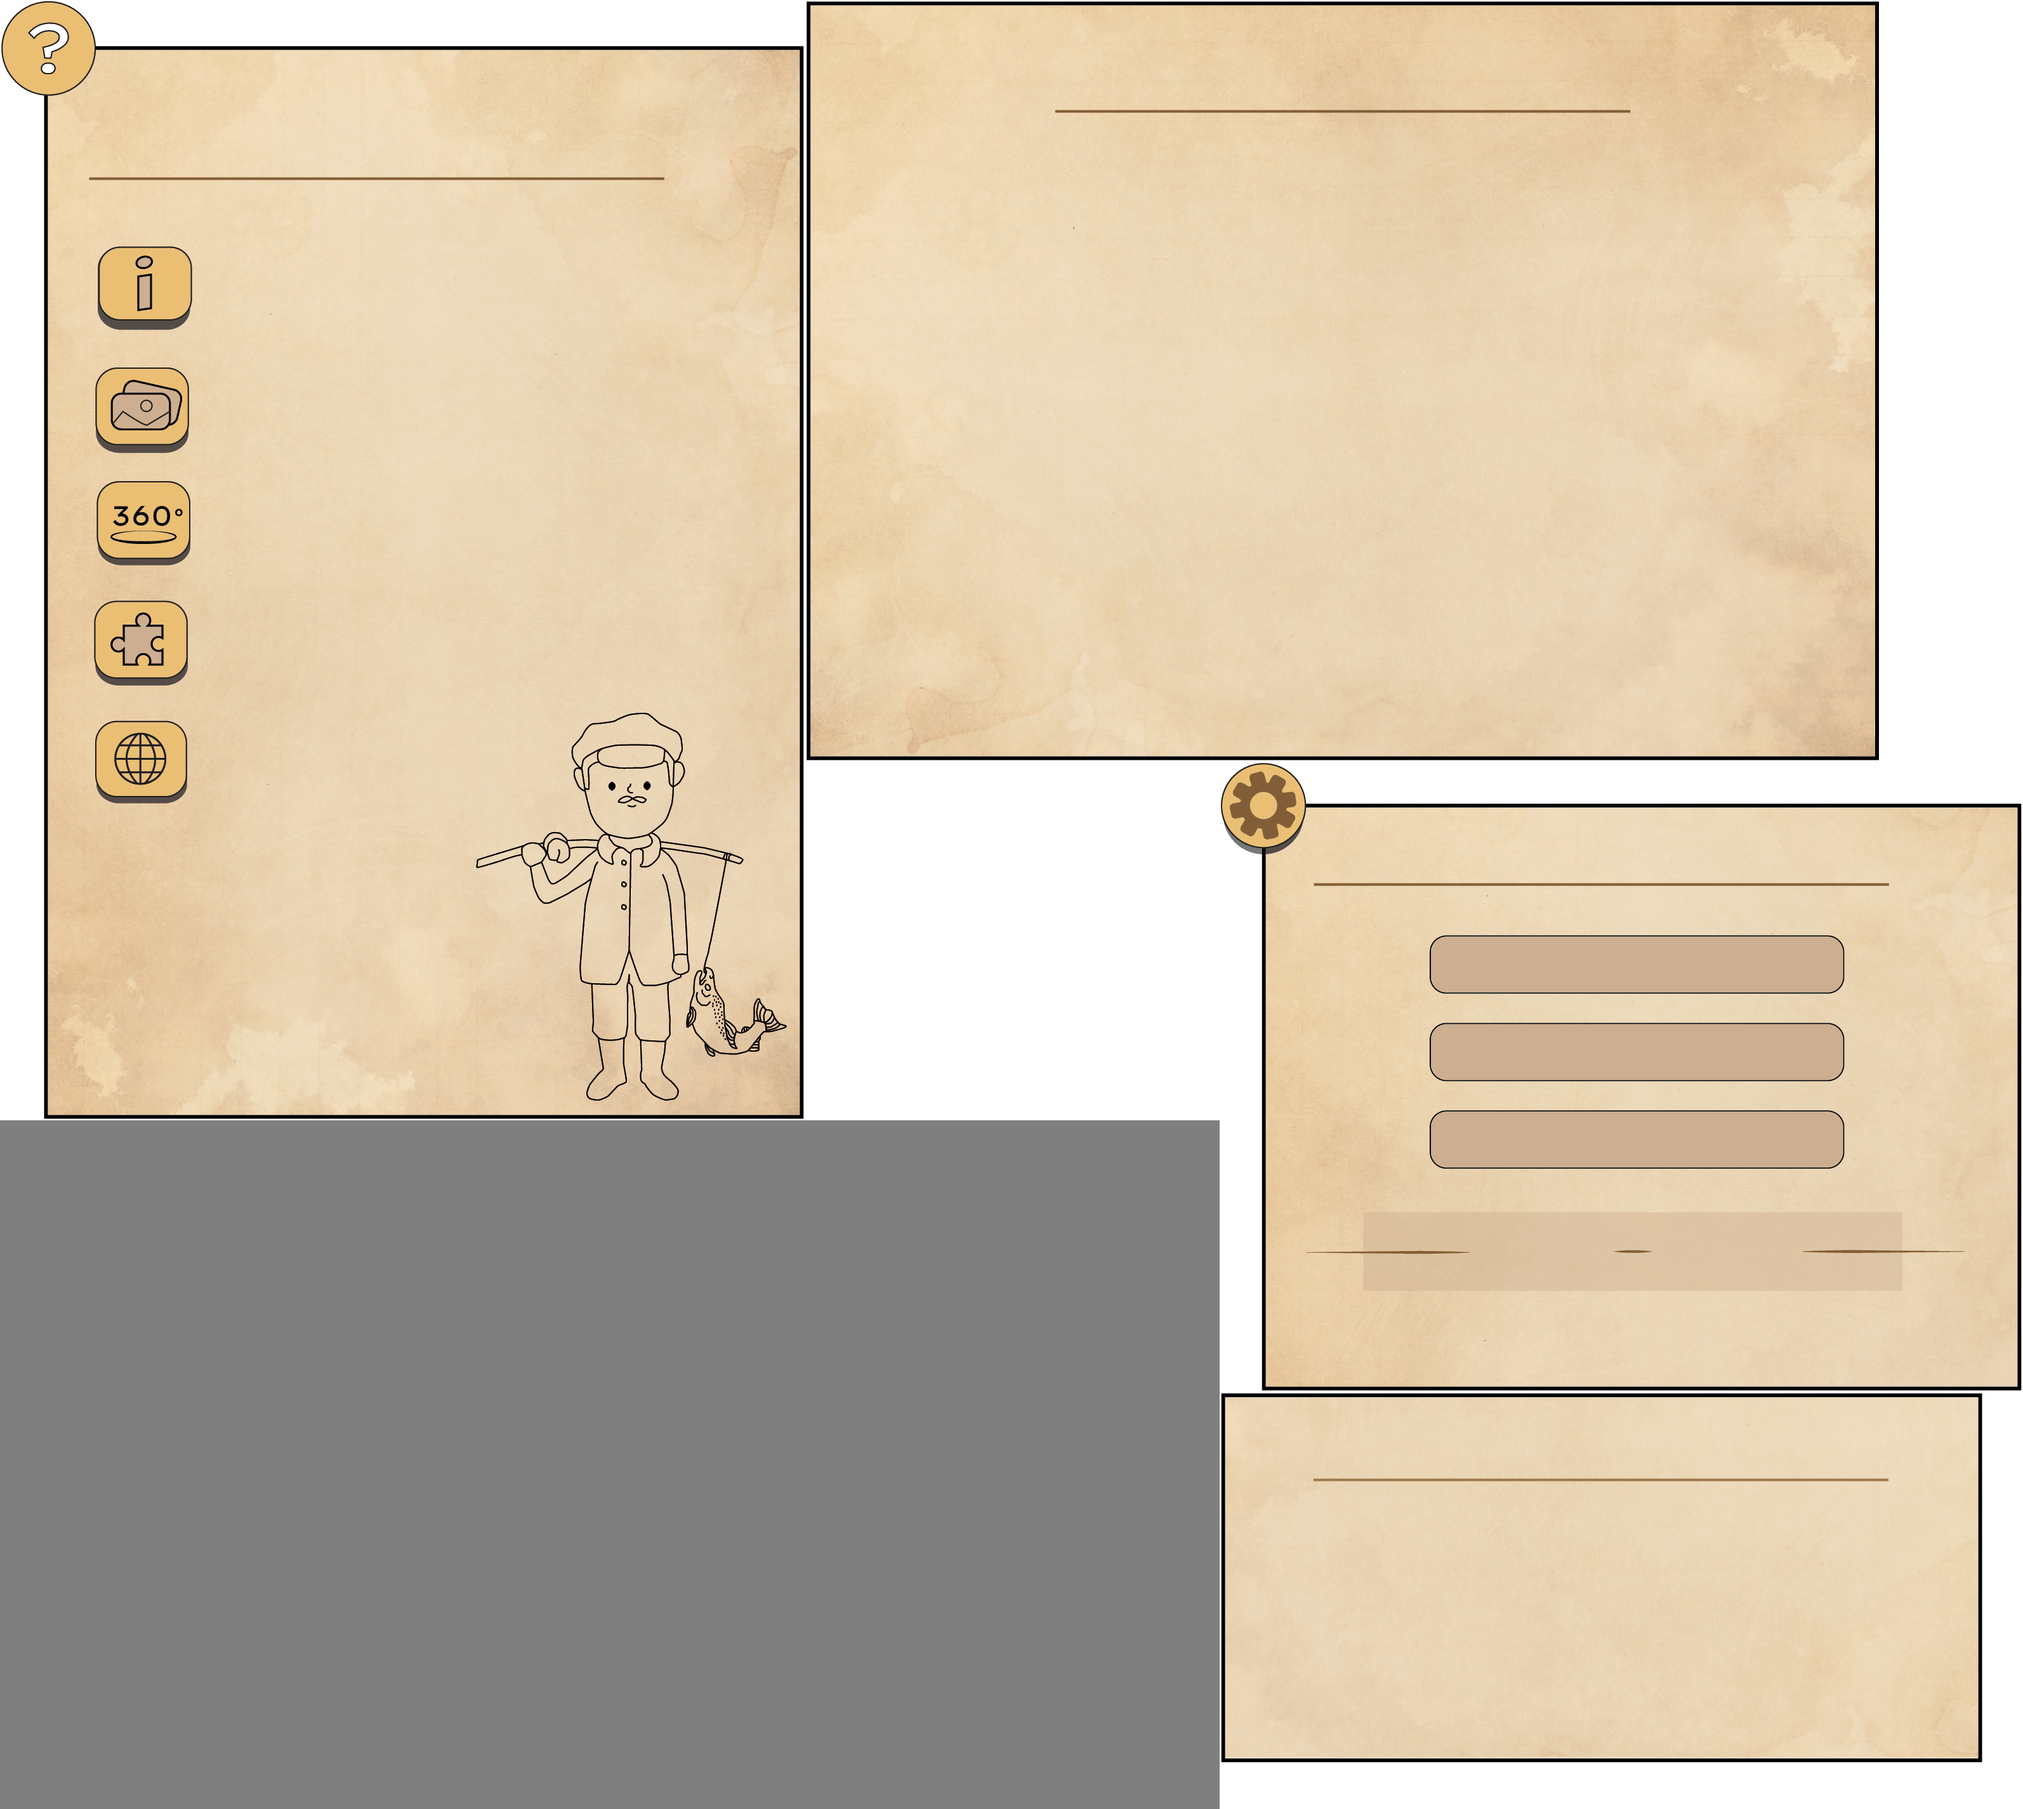
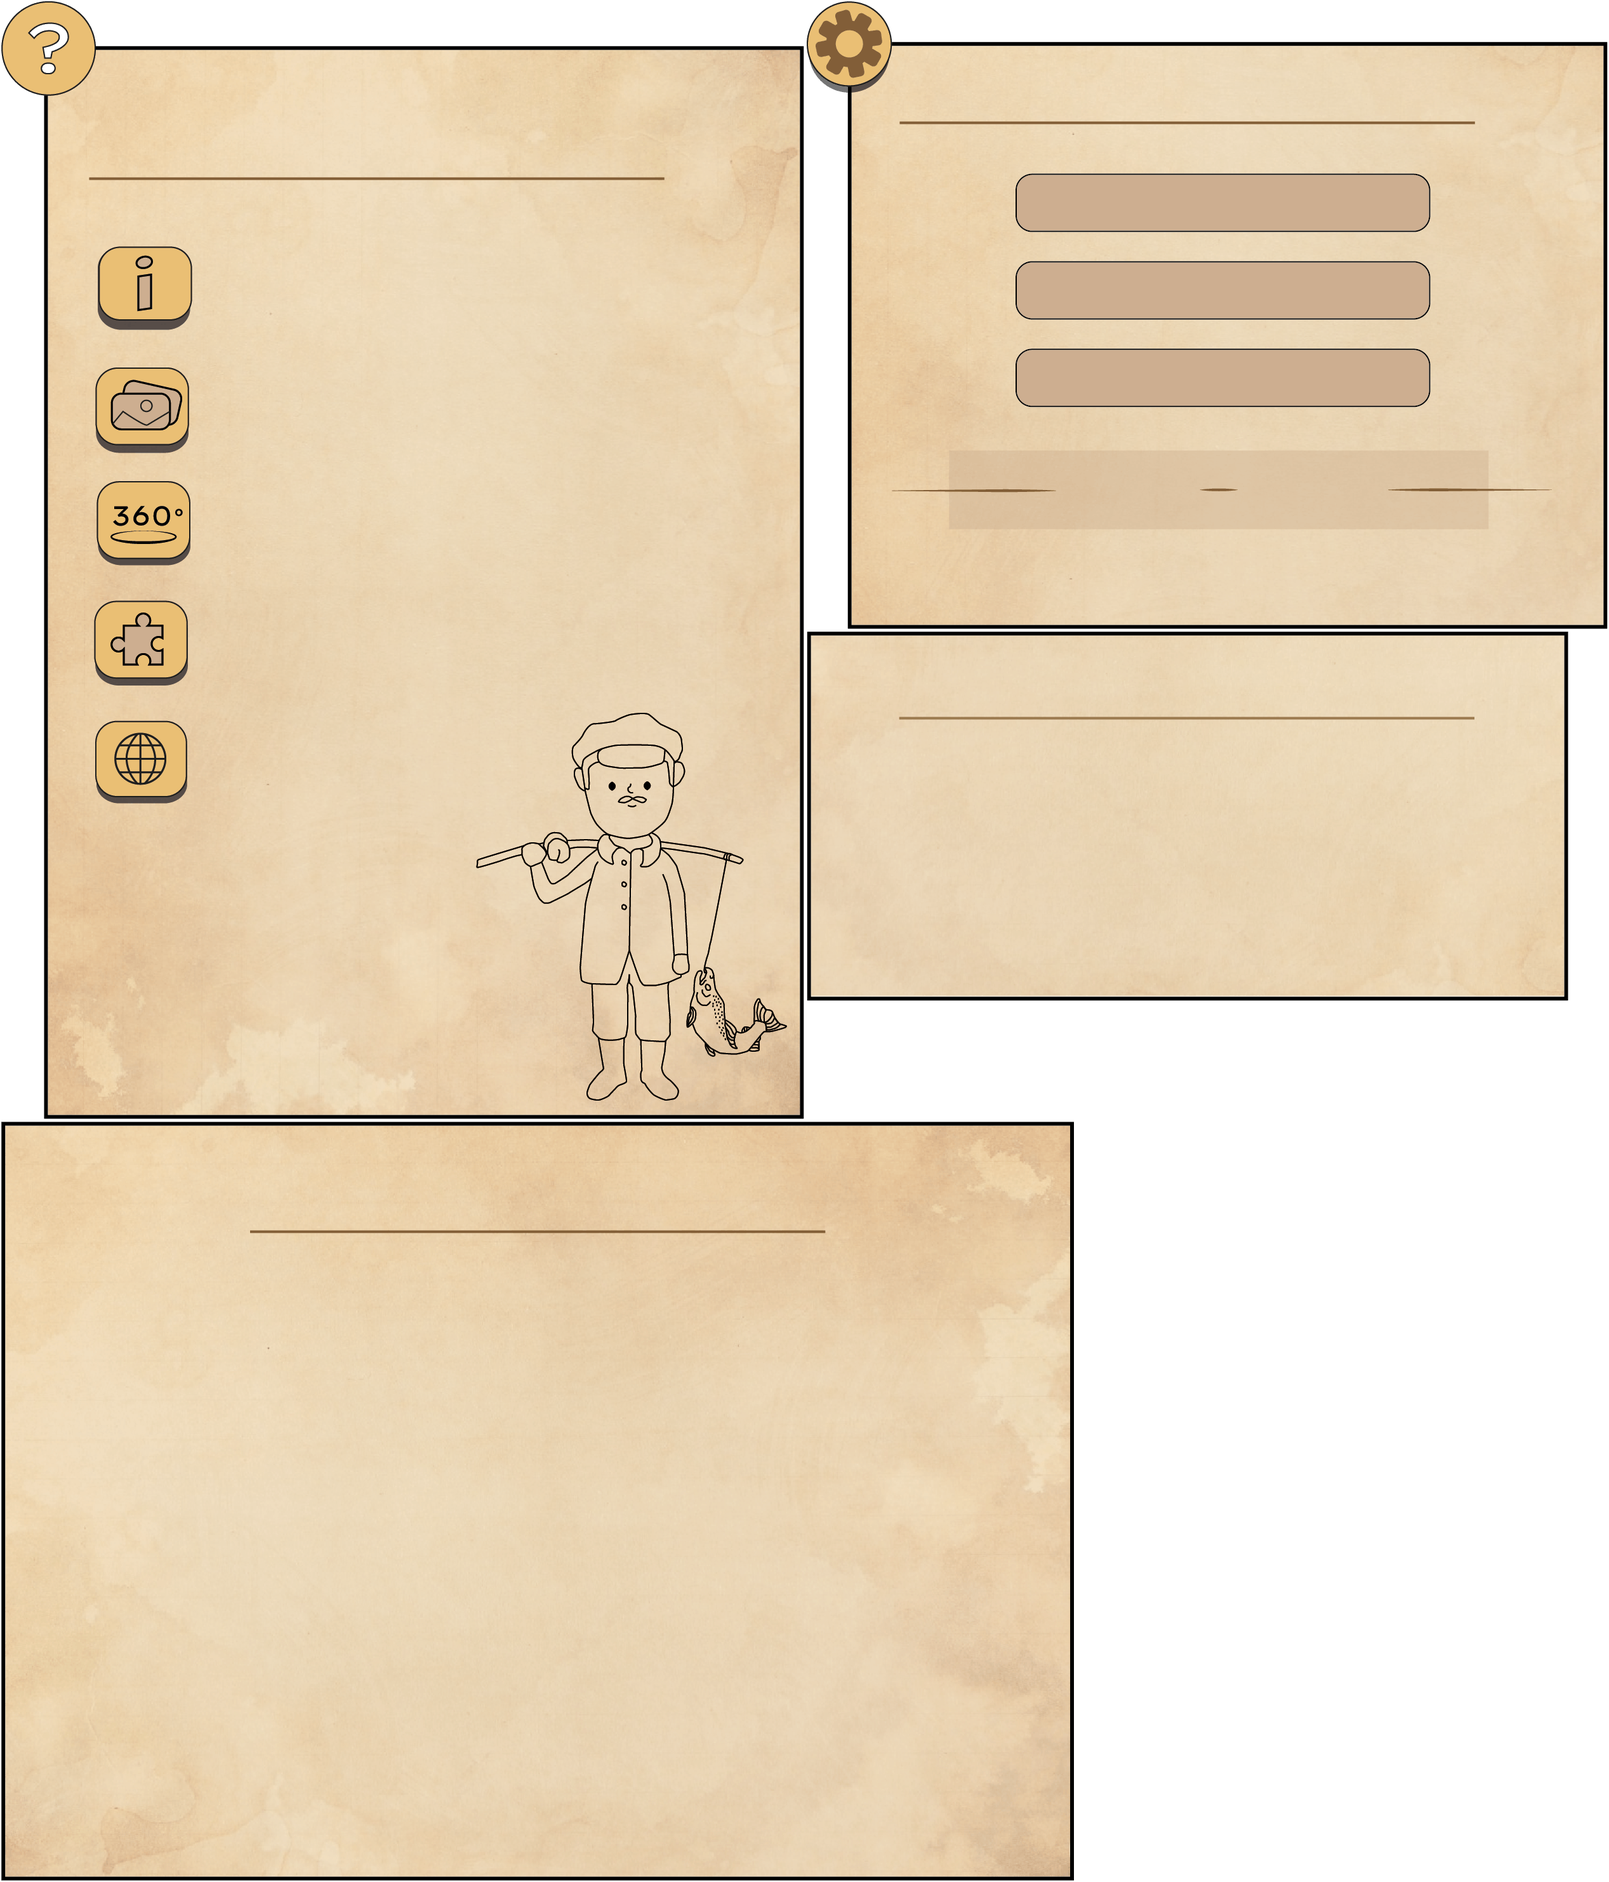
Restart-nappimuutokset muistipeliin

diff --git a/StockforsJS/MuistiPeliScene.js b/StockforsJS/MuistiPeliScene.js
@@ -145,7 +145,10 @@ class MuistiPeliScene extends Phaser.Scene {
 
     StartGame(difficulty) {
 
-        let back = CreateTextButton(this, (-this.menu.width/2)* this.menu.bg.scaleX, (this.menu.height/2) * this.menu.bg.scaleY, 'UI Buttons/Takaisin', this.data.Back).setScale(0.7);
+        //X coordinate for placing the restart button in the corner
+        //(-this.menu.width/2)* this.menu.bg.scaleX
+
+        let back = CreateTextButton(this, 0, (this.menu.height/2) * this.menu.bg.scaleY, 'UI Buttons/Nappi', this.data.Back).setScale(0.7);
 
         back.on('pointerup', function()
         {
@@ -315,16 +318,16 @@ class MuistiPeliScene extends Phaser.Scene {
 
                                 let win = CreateTextButton(this, this.cameras.main.centerX, this.cameras.main.centerY, 'UI Buttons/Nappi', this.data.Win + this.clicks + '\n' + this.data.highScore).disableInteractive();
                                 //let highScore = CreateTextButton(this, this.cameras.main.centerX, 350, 'UI Buttons/Nappi', this.data.HighScore).disableInteractive();
-                                win.bg.setScale(1, 2);
-                                let restart = CreateTextButton(this, this.cameras.main.centerX, this.cameras.main.centerY + 200, 'UI Buttons/OK', this.data.Restart);
+                                win.bg.setScale(1.1, 1.65);
+                                //let restart = CreateTextButton(this, this.cameras.main.centerX, this.cameras.main.centerY + 200, 'UI Buttons/OK', this.data.Restart);
 
-                                restart.on('pointerup', function () {
+                                /*restart.on('pointerup', function () {
 
                                     if (restart.pressed) {
                                         this.scene.restart();
                                     }
 
-                                }, this);
+                                }, this);*/
 
                                 if (this.difficulty == 'easy') {
                                     if (this.clicks < gameState.MPScoreEasy || gameState.MPScoreEasy == startingGameState.MPScoreEasy) {

diff --git a/StockforsJS/OptionsMenuScene.js b/StockforsJS/OptionsMenuScene.js
@@ -56,9 +56,9 @@ class OptionsMenuScene extends Phaser.Scene {
         this.createOptionsMenu();
         this.CreateFlags();
 
-        this.add.image(0, 0, 'MenuAtlas', 'UI Pohjat/Tummennus').setOrigin(0);
+        //this.add.image(0, 0, 'MenuAtlas', 'UI Pohjat/Tummennus').setOrigin(0);
 
-        //this.cameras.main.backgroundColor.setTo(255, 255, 255);
+        this.cameras.main.backgroundColor.setTo(0, 0, 0, 50);
 
         //}, null, this);
 
